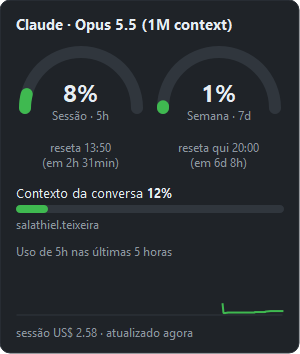
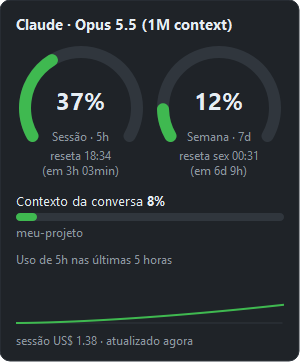
Prints do README refeitos com os medidores de 240 graus; docs/gerar_prints.py para refaze-los

diff --git a/docs/gerar_prints.py b/docs/gerar_prints.py
@@ -1,0 +1,122 @@
+"""Gera os prints do README em docs/ a partir do próprio widget.pyw.
+
+Rodar depois de qualquer mudança visual no widget (na pasta do projeto):
+
+    run-python.cmd python-qt docs\\gerar_prints.py
+
+Cartão, painel e ícones saem com dados de exemplo (sempre iguais, sem caminhos nem custo
+reais). O taskbar.png é uma captura real da tela: precisa do widget aberto e com o cartão
+na barra; sem isso, o print antigo fica como está.
+"""
+import importlib.util
+import os
+import sys
+import time
+from importlib.machinery import SourceFileLoader
+
+from PyQt5.QtGui import QRegion
+
+DOCS = os.path.dirname(os.path.abspath(__file__))
+loader = SourceFileLoader("widget", os.path.join(os.path.dirname(DOCS), "widget.pyw"))
+spec = importlib.util.spec_from_loader("widget", loader)
+w = importlib.util.module_from_spec(spec)
+loader.exec_module(w)
+
+TASKBAR_BG = "#1c1c1c"  # fundo da barra de tarefas no tema escuro do Windows 11
+ZOOM = 3  # cartão e ícones ampliados, para ficarem nítidos no README
+
+
+def save(pm, name):
+    path = os.path.join(DOCS, name)
+    pm.save(path)
+    print(f"  {name}  ({pm.width()}x{pm.height()})")
+
+
+def example_usage(five, seven, ctx, now):
+    return {"model": "Opus 5.5 (1M context)", "five_hour_pct": five, "seven_day_pct": seven,
+            "five_hour_resets_at": now + 3 * 3600 + 3 * 60, "seven_day_resets_at": now + 6 * 86400 + 9 * 3600,
+            "context_pct": ctx, "cwd": "C:/projetos/meu-projeto", "cost_usd": 1.38, "updated_at": now}
+
+
+def fake_history(final, now):
+    """Uso de 5h subindo aos poucos ao longo das últimas 5 horas, terminando em `final`."""
+    start = now - w.Spark.WINDOW
+    steps = 60
+    return [(start + i * w.Spark.WINDOW / steps, final * (i / steps) ** 1.6) for i in range(steps + 1)]
+
+
+def print_panel(five, seven, ctx, name, now):
+    panel = w.Panel()
+    w.load_history = lambda since, f=five: fake_history(f, now)  # o painel lê o histórico por aqui
+    panel.refresh(example_usage(five, seven, ctx, now), now)
+    panel.adjustSize()
+    save(panel.grab(), name)
+
+
+class CardPrint(w.MiniCard):
+    """O mini-cartão de verdade, mas fora da barra de tarefas (sem place())."""
+
+    def __init__(self, five, seven, h, scale):
+        w.QWidget.__init__(self)
+        self.setAttribute(w.Qt.WA_TranslucentBackground)
+        self.values = (five, seven)
+        self.stale = False
+        self.hover = False
+        self.layout, self.scale, width = self.compute_layout(h, scale)
+        self.resize(width, h)
+
+
+def print_card(five, seven, name):
+    card = CardPrint(five, seven, 48 * ZOOM, ZOOM)
+    pm = w.QPixmap(card.size())
+    pm.fill(w.QColor(TASKBAR_BG))
+    card.render(pm, w.QPoint(), QRegion(), w.QWidget.DrawChildren)
+    save(pm, name)
+
+
+def print_icons(name):
+    cases = [(5, False), (67, False), (92, False), (None, True)]
+    cell = 64 + 16
+    pm = w.QPixmap(len(cases) * cell, 64 + 8 + 32)
+    pm.fill(w.QColor(TASKBAR_BG))
+    p = w.QPainter(pm)
+    for i, (pct, stale) in enumerate(cases):
+        icon = w.make_gauge_icon(pct, stale)
+        x = i * cell + 8
+        p.drawPixmap(x, 0, icon.pixmap(64, 64))
+        # tamanhos reais da bandeja: 16 px (100%) e 32 px (200%)
+        p.drawPixmap(x + 4, 72 + 8, icon.pixmap(16, 16))
+        p.drawPixmap(x + 28, 72, icon.pixmap(32, 32))
+    p.end()
+    save(pm, name)
+
+
+def print_taskbar(name):
+    geo = w.taskbar_geometry()
+    if not geo:
+        print(f"  {name}: barra de tarefas não encontrada; mantido o print antigo")
+        return
+    _, bar, notify, scale = geo
+    _, _, card_w = w.MiniCard.compute_layout(bar.height(), scale)
+    x0 = max(bar.left(), notify.left() - card_w - int(60 * scale))
+    screen = w.QApplication.screenAt(bar.center()) or w.QApplication.primaryScreen()
+    pm = screen.grabWindow(0, x0, bar.top(), bar.right() - x0 + 1, bar.height())
+    # dobra os pixels sem suavizar, para o print não ficar borrado no README
+    save(pm.scaled(pm.width() * 2, pm.height() * 2, w.Qt.KeepAspectRatio, w.Qt.FastTransformation), name)
+    print("    (captura real: confira se o cartão do widget aparece nela)")
+
+
+def main():
+    app = w.QApplication(sys.argv)  # noqa: F841 (precisa existir antes dos widgets)
+    now = time.time()
+    print(f"Gerando os prints em {DOCS}")
+    print_card(100, 67, "card.png")
+    print_panel(37, 12, 8, "panel.png", now)
+    print_panel(67, 91, 8, "panel_hi.png", now)
+    print_icons("icons.png")
+    print_taskbar("taskbar.png")
+    return 0
+
+
+if __name__ == "__main__":
+    sys.exit(main())

diff --git a/README.md b/README.md
@@ -53,6 +53,7 @@ quando o `resets_at` já passou.
 | `run-python.cmd` | acha um Python 3 instalado (ver abaixo) e roda o script com ele |
 | `widget.pyw` | o widget (PyQt5 + ctypes/winreg) |
 | `iniciar-widget.vbs` | abre o widget sem janela de console |
+| `docs/gerar_prints.py` | refaz os prints deste README a partir do próprio `widget.pyw` |
 
 ## Requisitos
 
@@ -132,6 +133,19 @@ Se um dia mudar a pasta de lugar, atualize o `settings.json` e desmarque e marqu
   Windows 10 ou depois de reiniciar o Explorer.
 - Depois de reiniciar o widget, o Windows pode esconder os 2 ícones dentro do "^".
 - O Windows limita o tooltip da bandeja a 127 caracteres.
+
+## Prints do README
+
+Depois de qualquer mudança visual no widget, refaça os prints de `docs/` e versione-os junto
+com a mudança. Na pasta do projeto:
+
+```
+run-python.cmd python-qt docs\gerar_prints.py
+```
+
+O cartão, o painel e os ícones saem com dados de exemplo, sempre iguais e sem caminhos nem custo
+reais. O `taskbar.png` é uma captura real da tela: deixe o widget aberto, com o cartão na barra,
+e confira o print antes de versionar.
 
 ## Licença
 
